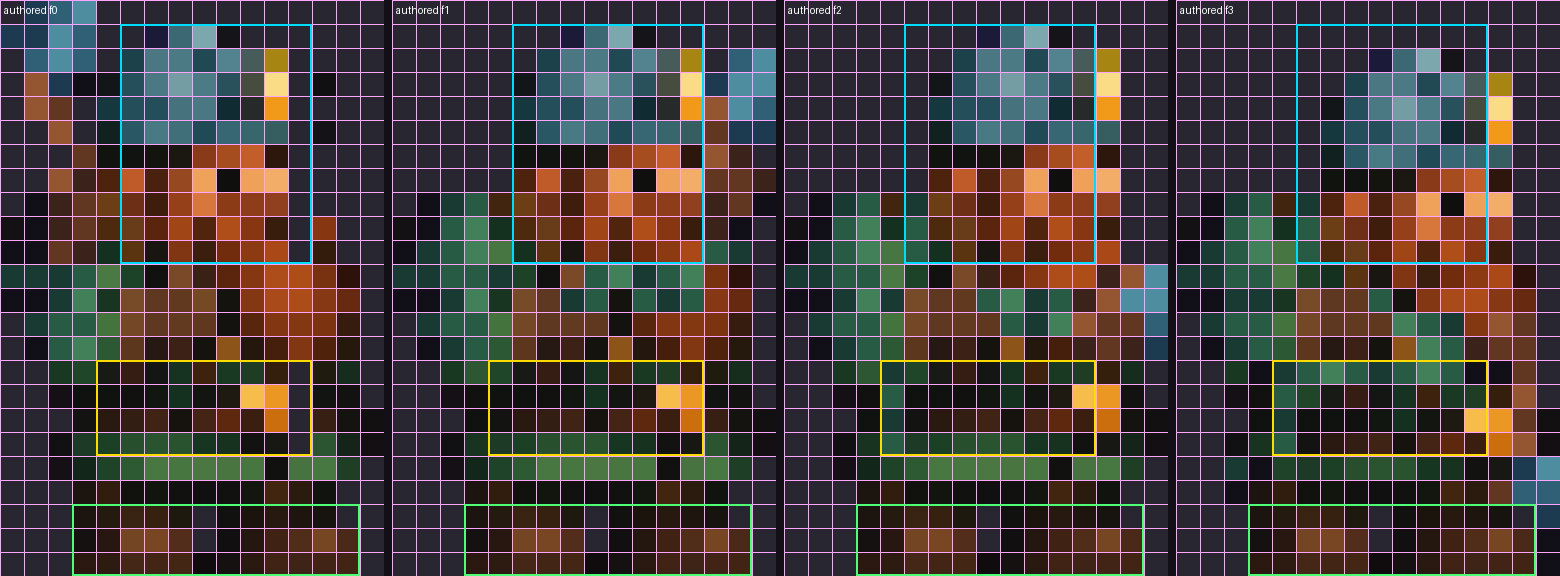
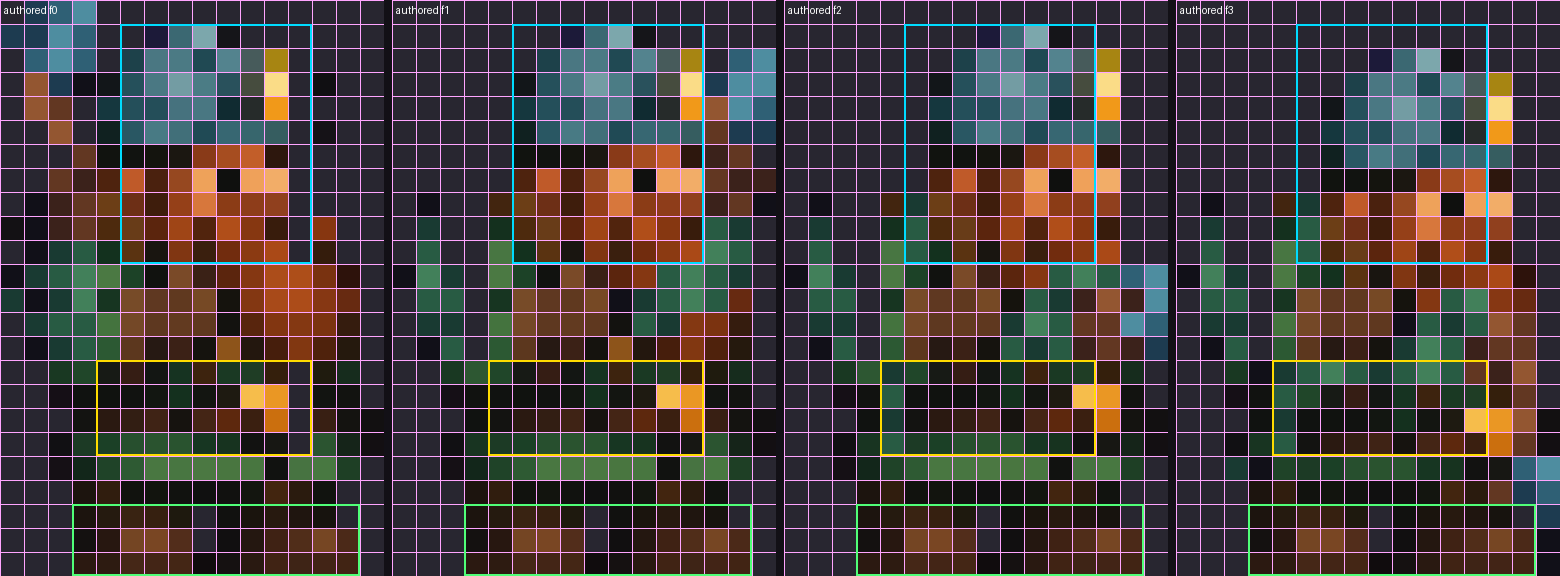
Move the whole swing arm with the axe each frame
Clear the parked mid-left arm mass on forward Frames, keep only a thin back
edge, and rebuild sleeve + hand on the tool so the limb travels with the head.

diff --git a/prototype/swing-cell-author/author.py b/prototype/swing-cell-author/author.py
@@ -182,32 +182,22 @@ def _head_blob(cx: int, cy: int) -> list[tuple[int, int, Cell]]:
     ]
 
 
-def _rear_torso_fill() -> list[tuple[int, int, Cell]]:
-    """Rebuild left/rear silhouette after tool erase / forward lean.
-
-    Uses tunic/outline only — never glove colors — so the gripping hand is not
-    visually confused with the back mass.
-    """
-    cells: list[tuple[int, int, Cell]] = []
-    for y, colors in (
-        (8, (OUTLINE, TUNIC_DARK, TUNIC)),
-        (9, (OUTLINE, TUNIC, TUNIC_MID)),
-        (10, (TUNIC_DARK, TUNIC, TUNIC_MID)),
-        (11, (TUNIC_DARK, TUNIC, TUNIC)),
-        (12, (OUTLINE, TUNIC_DARK, TUNIC_MID)),
-        (13, (TUNIC_DARK, TUNIC, TUNIC)),
-        (14, (OUTLINE, TUNIC_DARK, TUNIC)),
-    ):
-        for i, color in enumerate(colors):
-            cells.append((1 + i, y, color))
-    cells.extend(
-        [
-            (0, 10, OUTLINE),
-            (0, 11, TUNIC_DARK),
-            (0, 12, OUTLINE),
-        ]
-    )
-    return cells
+def _thin_back_edge() -> list[tuple[int, int, Cell]]:
+    """One-column rear silhouette — not a parked arm."""
+    return [
+        (1, 8, OUTLINE),
+        (1, 9, TUNIC_DARK),
+        (1, 10, TUNIC),
+        (1, 11, TUNIC_MID),
+        (1, 12, TUNIC),
+        (1, 13, TUNIC_DARK),
+        (1, 14, OUTLINE),
+        (0, 11, OUTLINE),
+        (2, 11, TUNIC_DARK),
+        (2, 12, TUNIC),
+        (2, 13, TUNIC_DARK),
+        (2, 14, TUNIC),
+    ]
 
 
 def _fill_vacated_after_forward_lean() -> list[tuple[int, int, Cell]]:
@@ -220,21 +210,50 @@ def _fill_vacated_after_forward_lean() -> list[tuple[int, int, Cell]]:
     return cells
 
 
+def clear_cells(
+    frame: list[list[Cell]],
+    coords: Iterable[tuple[int, int]],
+    *,
+    helmet_off: tuple[int, int],
+    belt_off: tuple[int, int],
+) -> None:
+    for x, y in coords:
+        set_cell(frame, x, y, None, helmet_off=helmet_off, belt_off=belt_off)
+
+
+def clear_parked_rear_arm(
+    frame: list[list[Cell]],
+    *,
+    helmet_off: tuple[int, int],
+    belt_off: tuple[int, int],
+) -> None:
+    """Remove the idle left arm mass so it cannot read as a static limb."""
+    coords = [
+        (x, y)
+        for y in range(7, 15)
+        for x in range(0, 4)
+    ]
+    clear_cells(frame, coords, helmet_off=helmet_off, belt_off=belt_off)
+
+
 def _lean_mass(direction: str) -> list[tuple[int, int, Cell]]:
     cells: list[tuple[int, int, Cell]] = []
     if direction == "back":
-        cells.extend(_rear_torso_fill())
-        cells.extend(
-            [
-                (1, 12, OUTLINE),
-                (1, 13, TUNIC_DARK),
-                (2, 14, TUNIC),
-                (3, 14, TUNIC_MID),
-            ]
-        )
+        # thick rear coil — arm IS on this side this frame
+        for y, colors in (
+            (8, (OUTLINE, TUNIC_DARK, TUNIC)),
+            (9, (OUTLINE, TUNIC, TUNIC_MID)),
+            (10, (TUNIC_DARK, TUNIC, TUNIC_MID)),
+            (11, (TUNIC_DARK, TUNIC, TUNIC)),
+            (12, (OUTLINE, TUNIC_DARK, TUNIC_MID)),
+            (13, (TUNIC_DARK, TUNIC, TUNIC)),
+            (14, (OUTLINE, TUNIC_DARK, TUNIC)),
+        ):
+            for i, color in enumerate(colors):
+                cells.append((1 + i, y, color))
+        cells.extend([(0, 11, OUTLINE), (0, 12, TUNIC_DARK)])
     elif direction == "forward":
-        # still keep a thin rear edge so the back does not tear open
-        cells.extend(_rear_torso_fill())
+        cells.extend(_thin_back_edge())
         for y, color in (
             (11, TUNIC),
             (12, TUNIC_MID),
@@ -242,24 +261,15 @@ def _lean_mass(direction: str) -> list[tuple[int, int, Cell]]:
             (14, TUNIC_DARK),
         ):
             cells.extend([(13, y, color), (14, y, TUNIC_DARK)])
-        cells.extend(
-            [
-                (13, 11, BEARD_DARK),
-                (14, 11, BEARD),
-                (15, 12, OUTLINE),
-                (15, 13, TUNIC_DARK),
-            ]
-        )
+        cells.extend([(14, 11, BEARD), (15, 12, OUTLINE)])
     elif direction == "squash":
-        cells.extend(_rear_torso_fill())
+        cells.extend(_thin_back_edge())
         cells.extend(
             [
                 (13, 14, TUNIC_MID),
                 (14, 14, TUNIC),
                 (13, 19, TUNIC_DARK),
                 (14, 19, TUNIC),
-                (2, 14, TUNIC_DARK),
-                (3, 14, TUNIC),
                 (2, 19, TUNIC_DARK),
                 (3, 19, OUTLINE),
                 (13, 13, BEARD),
@@ -290,10 +300,10 @@ def _base(
 
 
 def author_swing_frames(idle: list[list[Cell]]) -> list[list[list[Cell]]]:
-    """Coil → whip → commit → strike with a *traveling* grip."""
+    """Coil → whip → commit → strike — whole arm moves with the axe."""
     frames: list[list[list[Cell]]] = []
 
-    # Frame 0 — coil: grip HIGH-BACK with the raised tool.
+    # Frame 0 — coil: arm + hand + axe all HIGH-BACK (left).
     h0, b0 = (-1, 0), (-1, 0)
     f0 = _base(idle, h0, b0)
     paint(
@@ -309,33 +319,36 @@ def author_swing_frames(idle: list[list[Cell]]) -> list[list[list[Cell]]]:
             (2, 4, HANDLE),
             (2, 5, HANDLE_MID),
             (3, 6, HANDLE),
-            # shoulder(rear) → elbow → hand on handle (all on the left)
-            (3, 11, TUNIC),
-            (2, 11, TUNIC_DARK),
-            (2, 10, GLOVE_LIT),
-            (3, 10, GLOVE),
-            (1, 10, OUTLINE),
-            (2, 9, GLOVE),
-            (3, 9, GLOVE_LIT),
-            (1, 9, OUTLINE),
+            # hand ON handle
+            (2, 7, GLOVE_LIT),
+            (3, 7, GLOVE),
             (2, 8, GLOVE),
             (3, 8, GLOVE_LIT),
             (1, 8, OUTLINE),
-            (3, 7, GLOVE),
-            (2, 7, HANDLE_MID),
+            (2, 9, GLOVE),
+            (3, 9, GLOVE_LIT),
+            # forearm / shoulder on the same side as the tool
+            (2, 10, TUNIC_DARK),
+            (3, 10, TUNIC),
+            (1, 10, OUTLINE),
+            (2, 11, TUNIC),
+            (3, 11, TUNIC_MID),
+            (1, 11, TUNIC_DARK),
         ],
         helmet_off=h0,
         belt_off=b0,
     )
     frames.append(f0)
 
-    # Frame 1 — whip: big glove cluster HIGH-RIGHT on the handle; span uses tunic.
+    # Frame 1 — whip: clear parked left arm; rebuild arm on the RIGHT with the axe.
     h1, b1 = (0, 0), (0, 0)
     f1 = _base(idle, h1, b1)
+    clear_parked_rear_arm(f1, helmet_off=h1, belt_off=b1)
     paint(
         f1,
         [
-            *_rear_torso_fill(),
+            *_thin_back_edge(),
+            # axe high-right
             *_head_blob(14, 4),
             (15, 3, HEAD_LIT),
             (15, 4, HEAD),
@@ -343,40 +356,42 @@ def author_swing_frames(idle: list[list[Cell]]) -> list[list[list[Cell]]]:
             (13, 4, HANDLE_MID),
             (13, 5, HANDLE),
             (13, 6, HANDLE_MID),
-            # GLOVES only at x>=13 while helmet lock owns x<=12 for y<=10
+            # HAND glued to axe/handle (x>=13 only above y=10)
+            (13, 6, GLOVE),
+            (14, 6, GLOVE_LIT),
             (13, 7, GLOVE_LIT),
-            (14, 6, GLOVE),
-            (14, 7, GLOVE_LIT),
+            (14, 7, GLOVE),
             (15, 7, GLOVE),
             (13, 8, GLOVE),
             (14, 8, GLOVE_LIT),
             (15, 8, OUTLINE),
-            (13, 9, GLOVE),
-            (14, 9, OUTLINE),
-            # sleeve span in tunic (below face lock / outside it)
-            (3, 11, TUNIC),
-            (4, 11, TUNIC_DARK),
-            (8, 11, TUNIC),
-            (9, 11, TUNIC_MID),
-            (10, 11, TUNIC_DARK),
+            # FOREARM on the right edge (moves with axe)
+            (13, 9, TUNIC),
+            (14, 9, TUNIC_DARK),
+            (13, 10, TUNIC_MID),
+            (14, 10, TUNIC),
+            # UPPER ARM from shoulder (below face lock) out to the right limb
             (11, 11, TUNIC),
             (12, 11, TUNIC_MID),
-            (12, 12, TUNIC),
-            (11, 12, TUNIC_DARK),
-            (10, 12, TUNIC),
-            (7, 12, TUNIC_DARK),
-            (8, 12, TUNIC),
-            (13, 10, TUNIC),  # x=13 free beside helmet
-            (14, 10, TUNIC_DARK),
+            (13, 11, TUNIC),
+            (14, 11, TUNIC_DARK),
+            (10, 12, TUNIC_DARK),
+            (11, 12, TUNIC),
+            (12, 12, TUNIC_MID),
+            (13, 12, TUNIC),
+            (9, 12, OUTLINE),
+            (10, 13, TUNIC),
+            (11, 13, TUNIC_DARK),
         ],
         helmet_off=h1,
         belt_off=b1,
     )
     frames.append(f1)
 
-    # Frame 2 — commit: gloves locked to the forward tool head.
+    # Frame 2 — commit: arm stretched forward-down; hand on axe head.
     h2, b2 = (1, 0), (1, 0)
     f2 = _base(idle, h2, b2)
+    clear_parked_rear_arm(f2, helmet_off=h2, belt_off=b2)
     paint(
         f2,
         [
@@ -388,34 +403,35 @@ def author_swing_frames(idle: list[list[Cell]]) -> list[list[list[Cell]]]:
             (15, 14, HEAD_DARK),
             (13, 12, HANDLE_MID),
             (13, 13, HANDLE),
-            (12, 13, HANDLE_MID),
-            # traveling hand = only these forward gloves
+            # HAND on the axe (no gap)
+            (12, 12, GLOVE),
             (13, 14, GLOVE_LIT),
             (14, 14, GLOVE),
+            (12, 13, GLOVE_LIT),
             (12, 14, GLOVE),
-            (14, 13, GLOVE_LIT),
-            (13, 11, GLOVE),
-            (12, 12, GLOVE),
-            # sleeve in tunic from rear fill toward grip
-            (3, 11, TUNIC),
-            (4, 12, TUNIC_DARK),
-            (8, 12, TUNIC),
-            (9, 12, TUNIC_MID),
-            (10, 12, TUNIC_DARK),
-            (11, 12, TUNIC),
-            (11, 13, TUNIC_MID),
-            (10, 13, TUNIC_DARK),
-            (9, 13, TUNIC),
-            (14, 11, BEARD),
+            (14, 12, GLOVE),
+            # ARM mass with the tool on the right
+            (11, 11, TUNIC),
+            (12, 11, TUNIC_MID),
+            (13, 11, TUNIC),
+            (11, 12, TUNIC_DARK),
+            (11, 13, TUNIC),
+            (10, 12, TUNIC),
+            (10, 13, TUNIC_MID),
+            (9, 13, TUNIC_DARK),
+            (9, 14, TUNIC),
+            (10, 14, TUNIC_DARK),
+            (11, 14, TUNIC),
         ],
         helmet_off=h2,
         belt_off=b2,
     )
     frames.append(f2)
 
-    # Frame 3 — strike: gloves at the low-forward brace on the handle.
+    # Frame 3 — strike: arm and hand follow the tip to the ground.
     h3, b3 = (1, 1), (1, 1)
     f3 = _base(idle, h3, b3)
+    clear_parked_rear_arm(f3, helmet_off=h3, belt_off=b3)
     paint(
         f3,
         [
@@ -426,30 +442,30 @@ def author_swing_frames(idle: list[list[Cell]]) -> list[list[list[Cell]]]:
             (15, 21, HEAD_DARK),
             (15, 22, OUTLINE),
             (15, 23, OUTLINE),
-            (14, 20, HEAD),
-            (14, 19, HEAD_DARK),
+            (14, 19, HEAD),
+            (14, 20, HEAD_DARK),
             (13, 19, HANDLE_MID),
-            (14, 18, HANDLE_MID),
-            (14, 17, HANDLE),
-            (14, 16, HANDLE_MID),
-            (14, 15, HANDLE),
-            # hand at strike
+            (14, 18, HANDLE),
+            (14, 17, HANDLE_MID),
+            (14, 16, HANDLE),
+            (14, 15, HANDLE_MID),
+            # HAND on the low handle / strike brace
             (13, 14, GLOVE_LIT),
             (14, 14, GLOVE),
             (12, 14, GLOVE),
-            (13, 20, GLOVE),  # near tip brace; skipped if boots lock
+            (13, 15, GLOVE),
+            (12, 15, GLOVE_LIT),
             (14, 14, GLOVE_LIT),
-            (12, 15, OUTLINE),
-            # sleeve tunic only
-            (3, 11, TUNIC),
-            (3, 12, TUNIC_DARK),
-            (8, 12, TUNIC),
-            (9, 13, TUNIC_MID),
-            (10, 13, TUNIC),
+            # ARM driven down-forward with the strike
+            (11, 12, TUNIC),
+            (12, 12, TUNIC_MID),
             (11, 13, TUNIC_DARK),
-            (11, 14, TUNIC),
+            (12, 13, TUNIC),
+            (10, 13, TUNIC),
             (10, 14, TUNIC_MID),
-            (2, 20, OUTLINE),
+            (11, 14, TUNIC),
+            (9, 13, OUTLINE),
+            (9, 14, TUNIC_DARK),
             (13, 20, HANDLE),
         ],
         helmet_off=h3,

diff --git a/prototype/swing-cell-author/NOTES.md b/prototype/swing-cell-author/NOTES.md
@@ -76,3 +76,9 @@ Fix:
 - narrower idle-tool erase (keep body mass)
 
 Still Identity Lock PASS.
+
+## Whole-arm travel pass
+
+The mid-left green mass was still reading as a parked arm while the axe arced.
+Now f1–f3 clear that rear arm band, keep only a thin back edge, and rebuild the
+green limb + brown hand on the axe side every Frame (hand glued to handle).
